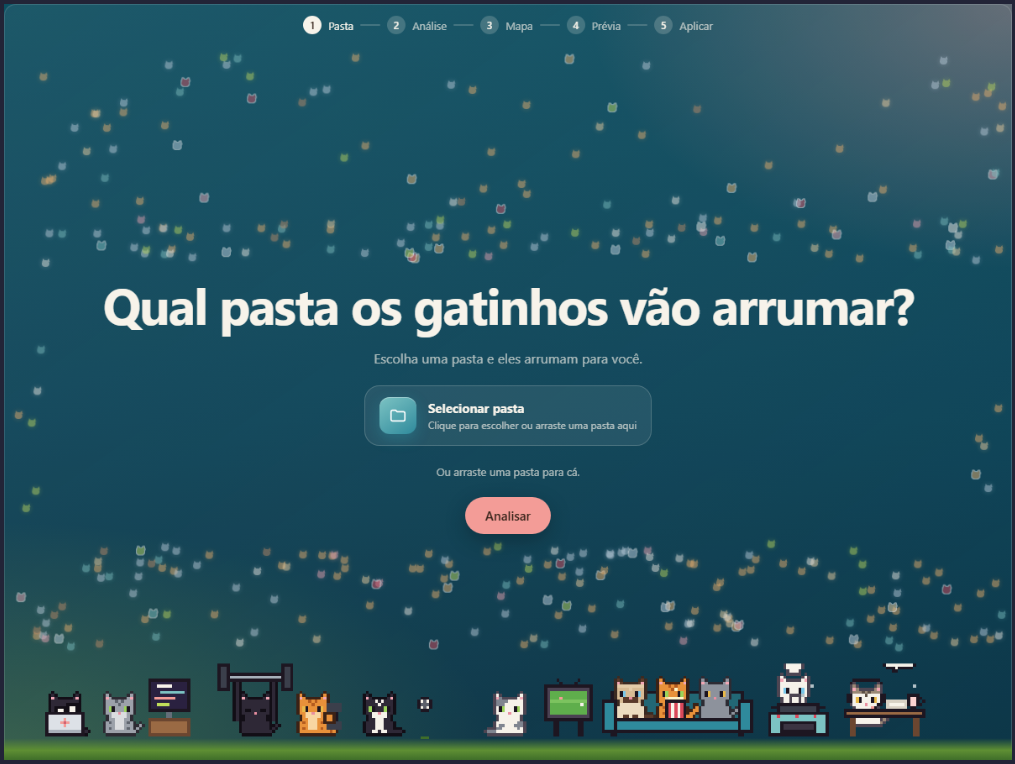
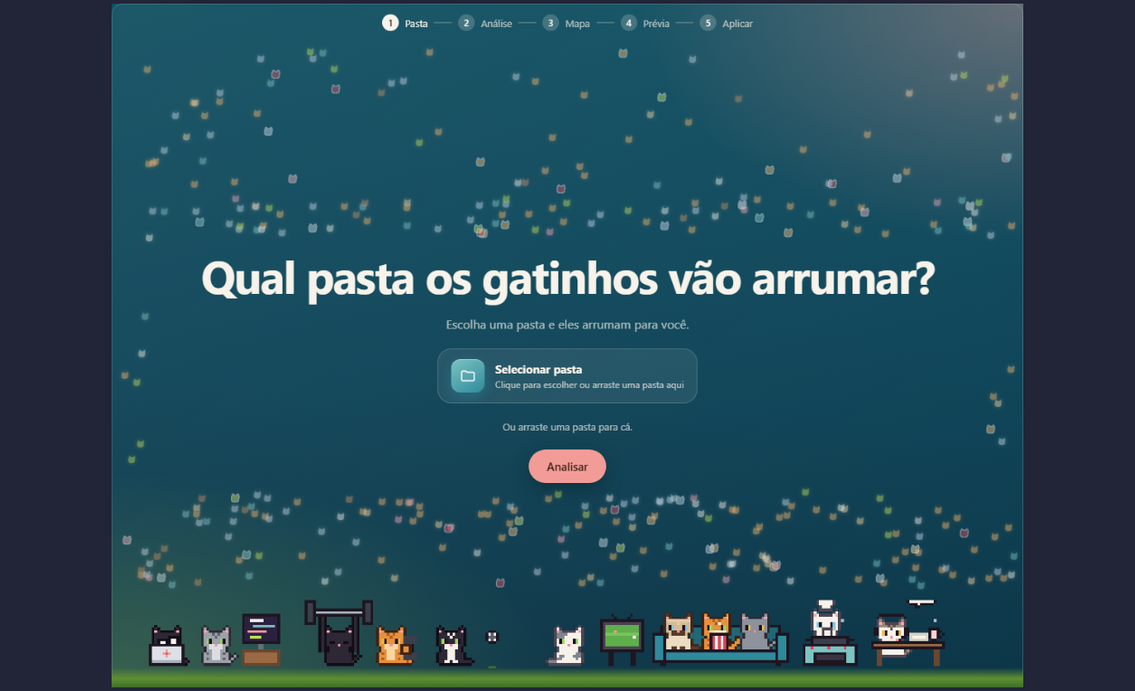
fix: padroniza tamanho da primeira imagem da demonstração

diff --git a/docs/DEMONSTRACAO.md b/docs/DEMONSTRACAO.md
@@ -14,7 +14,7 @@ A página do projeto está em [julianasaunders.github.io/MeOwganiza](https://jul
 
 **1. Escolha a pasta** que será organizada.
 
-![Tela inicial da demonstração, com a seleção da pasta para organizar](images/selecao-da-pasta.png)
+![Tela inicial da demonstração, com a seleção da pasta para organizar](images/selecao-da-pasta.png?v=2)
 
 **2. Mapa dos arquivos analisados.**
 
